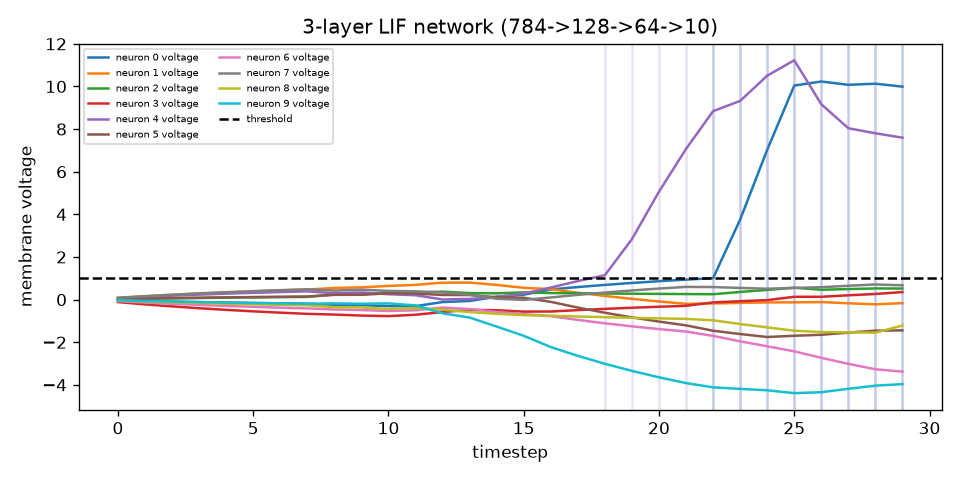
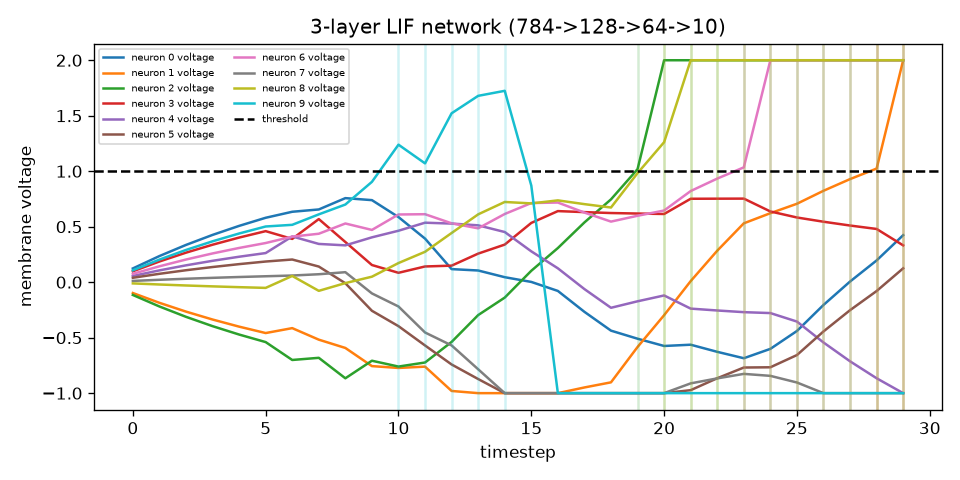
add membrane clamping -- floor and ceiling

diff --git a/layer.py b/layer.py
@@ -31,6 +31,7 @@ beta_trace = 0.9
 A_plus = 0.05  # max weight nudge size
 A_minus = 0.05
 W_MIN, W_MAX = -1.0, 1.0  # weight clipping bounds
+MEM_MIN, MEM_MAX = -1.0, 2.0  # membrane potential clamp bounds
 
 spk_out, mem_out = [[] for _ in range(n_out)], [[] for _ in range(n_out)]
 input_history = []
@@ -50,12 +51,15 @@ for t in range(n_steps):
 
     out_1 = layer_1(input)
     spk_1, mem_1 = lif_1(out_1, mem_1)
+    mem_1 = torch.clamp(mem_1, min=MEM_MIN, max=MEM_MAX)
 
     out_2 = layer_2(spk_1)
     spk_2, mem_2 = lif_2(out_2, mem_2)
+    mem_2 = torch.clamp(mem_2, min=MEM_MIN, max=MEM_MAX)
 
     out_3 = layer_3(spk_2)
     spk_3, mem_3 = lif_3(out_3, mem_3)
+    mem_3 = torch.clamp(mem_3, min=MEM_MIN, max=MEM_MAX)
 
     trace_1 = beta_trace * trace_1 + input
     trace_2 = beta_trace * trace_2 + spk_1
